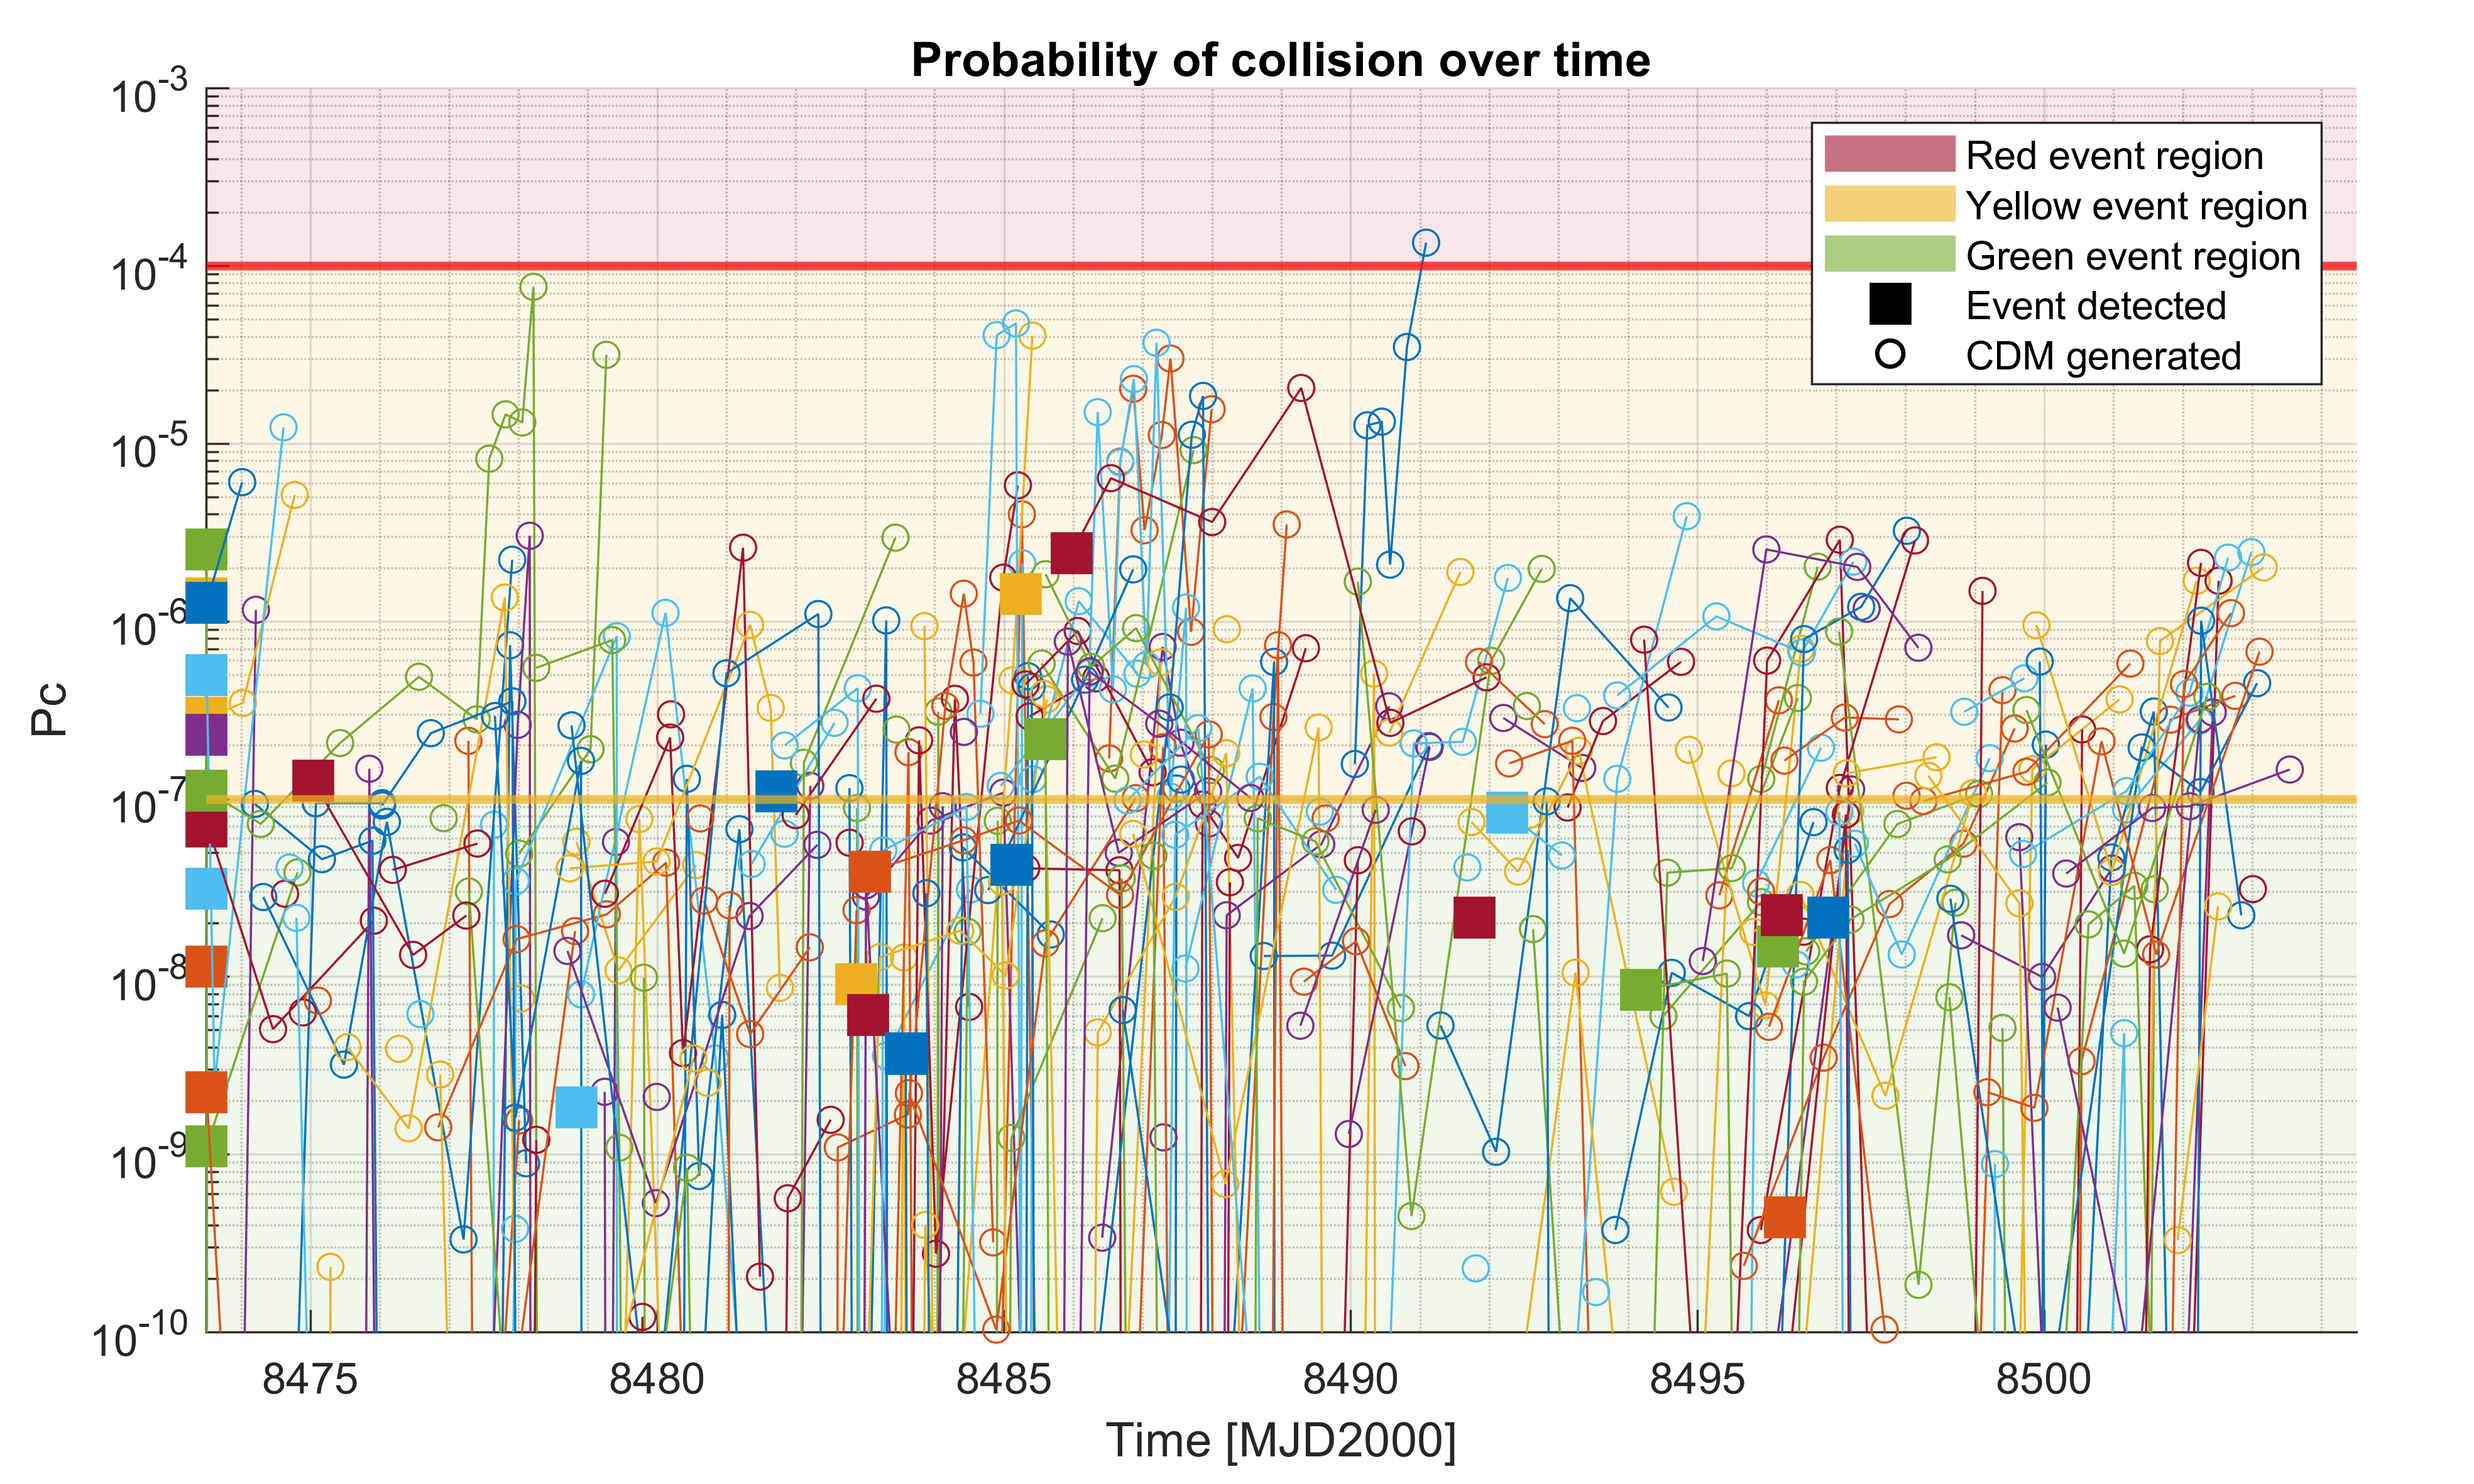
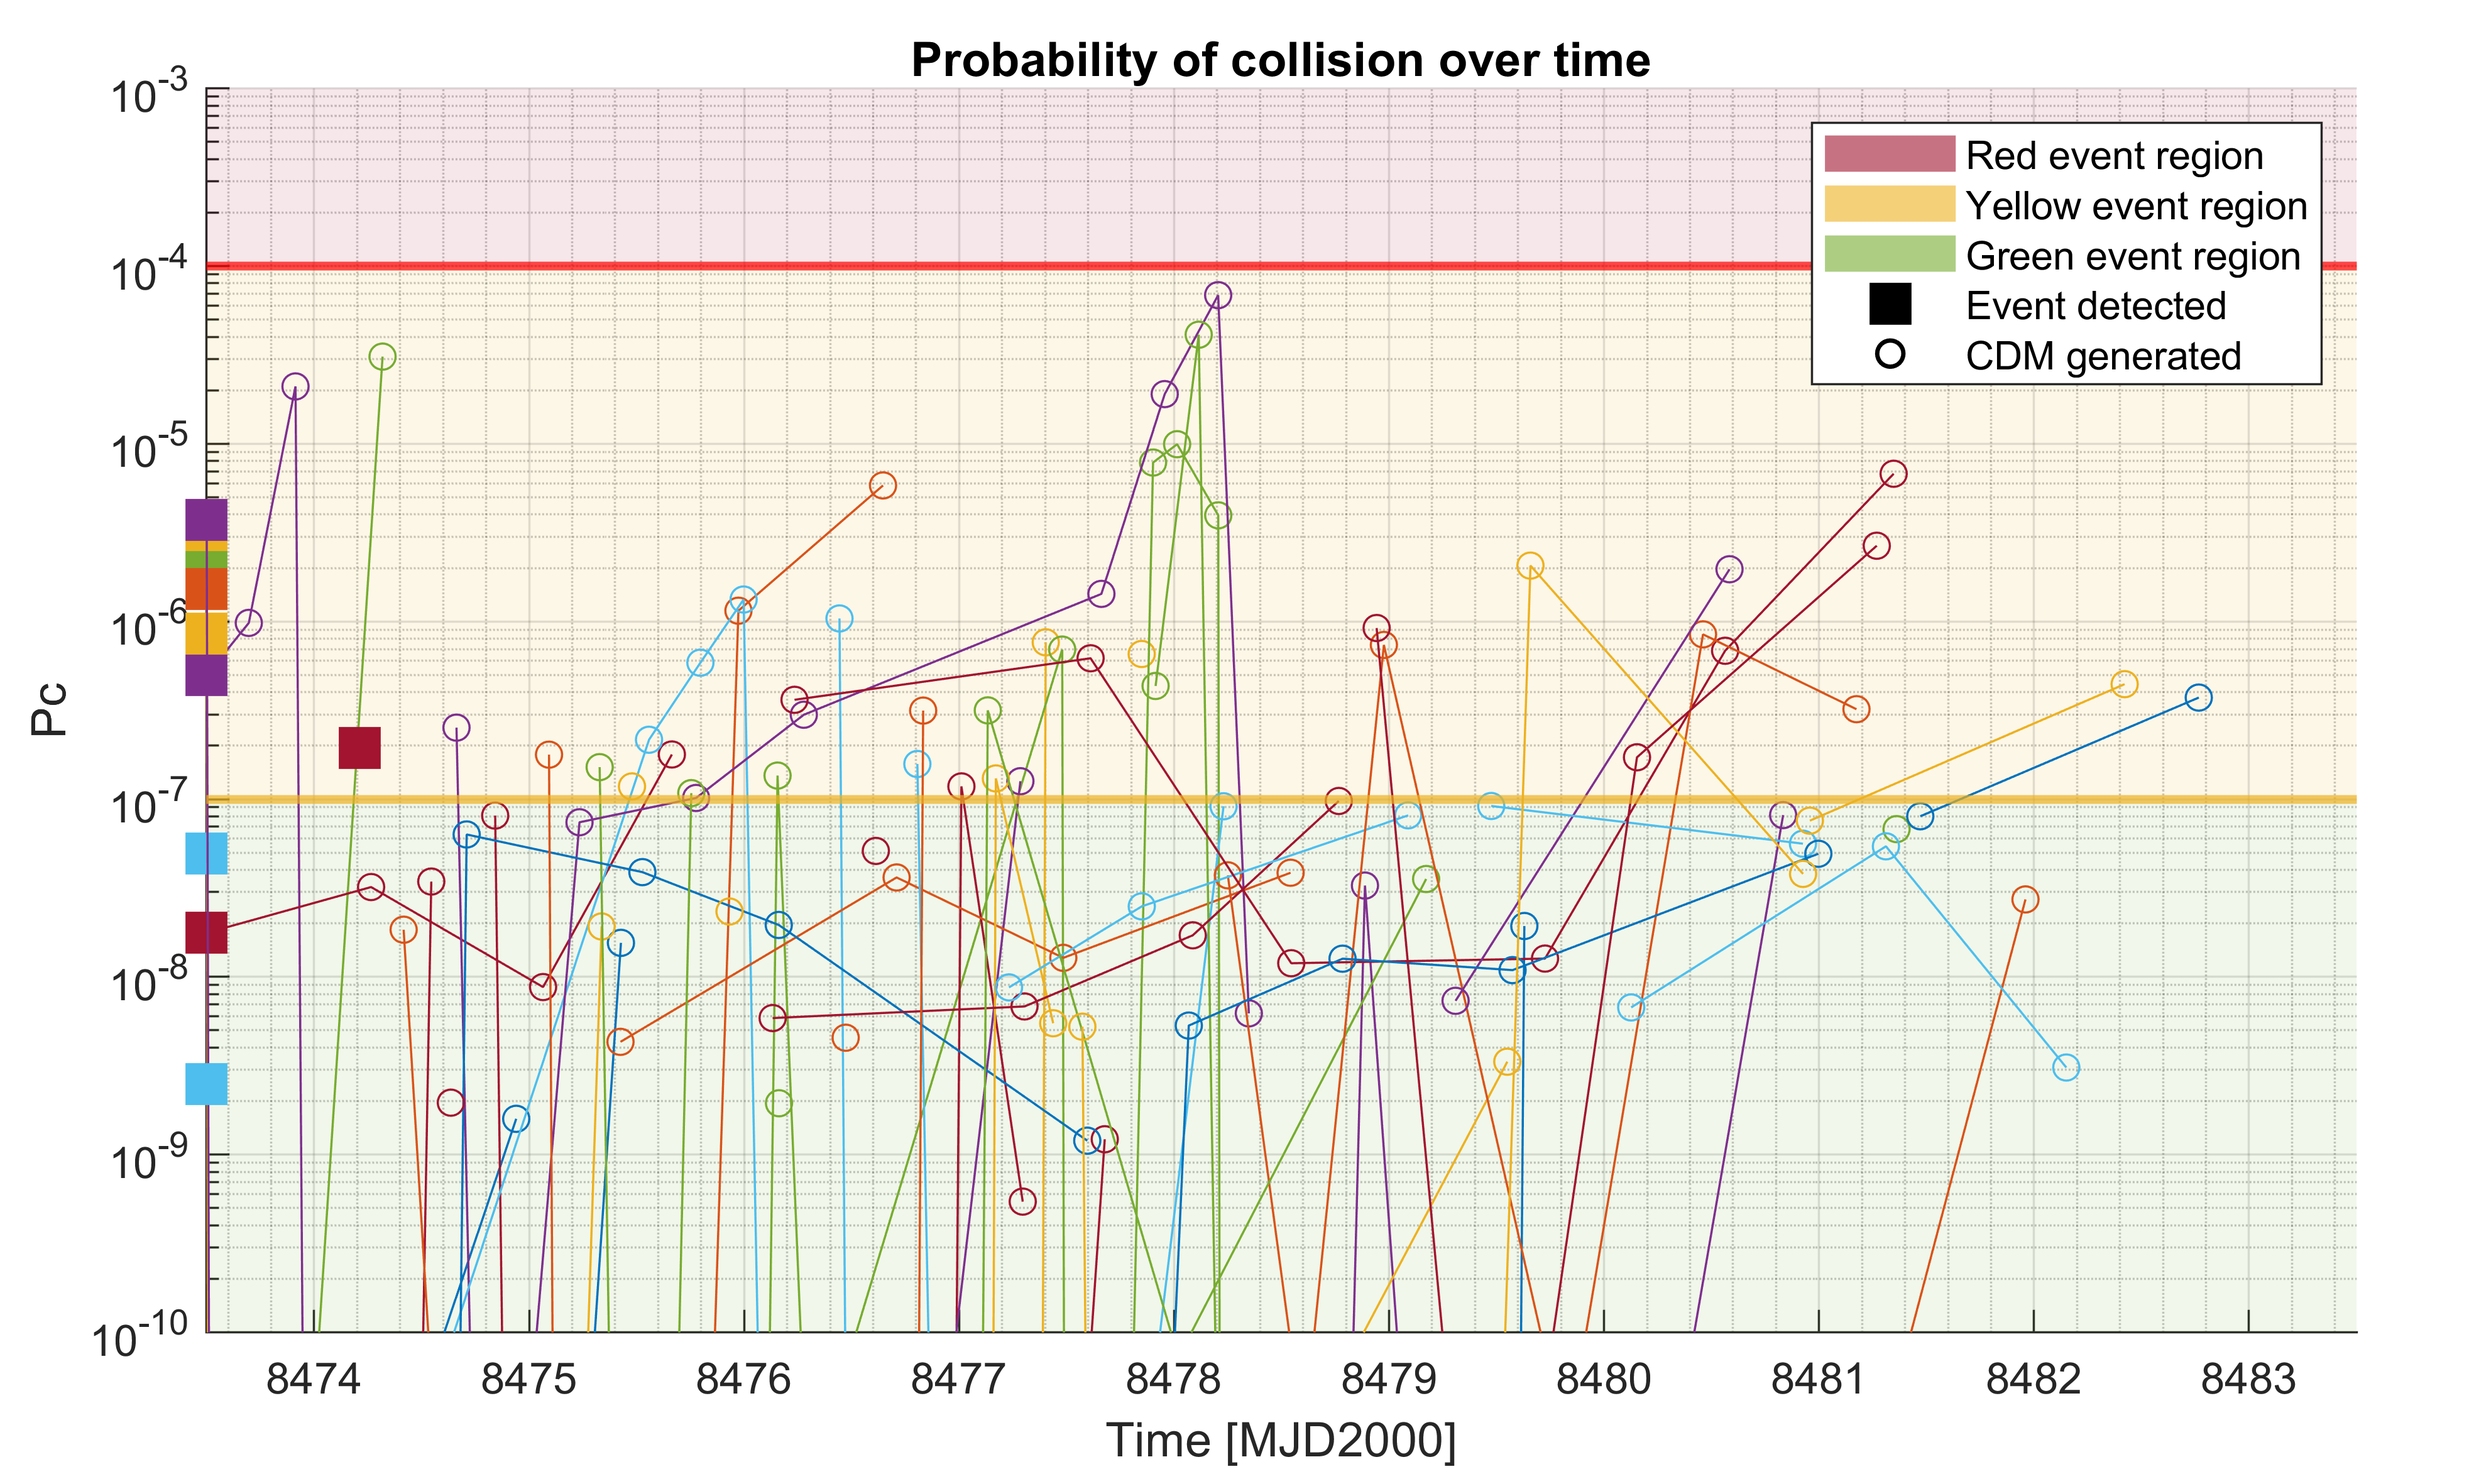
Minor changes

diff --git a/Code/Main.m b/Code/Main.m
@@ -15,7 +15,7 @@ GetConfig;
 tic
 %epoch = datevec(datetime('now'));     % Setting the epoch to the current time in the local timezone (Gregorian calender)
 epoch = [2023 3 15 0 0 0];
-end_date= [2023 4 15 0 0 0];           % Simulation end date and time in gregorian calender
+end_date= [2023 3 25 0 0 0];           % Simulation end date and time in gregorian calender
 accelerator=0;                          % details to be added
 global total_budget;
 global config;
